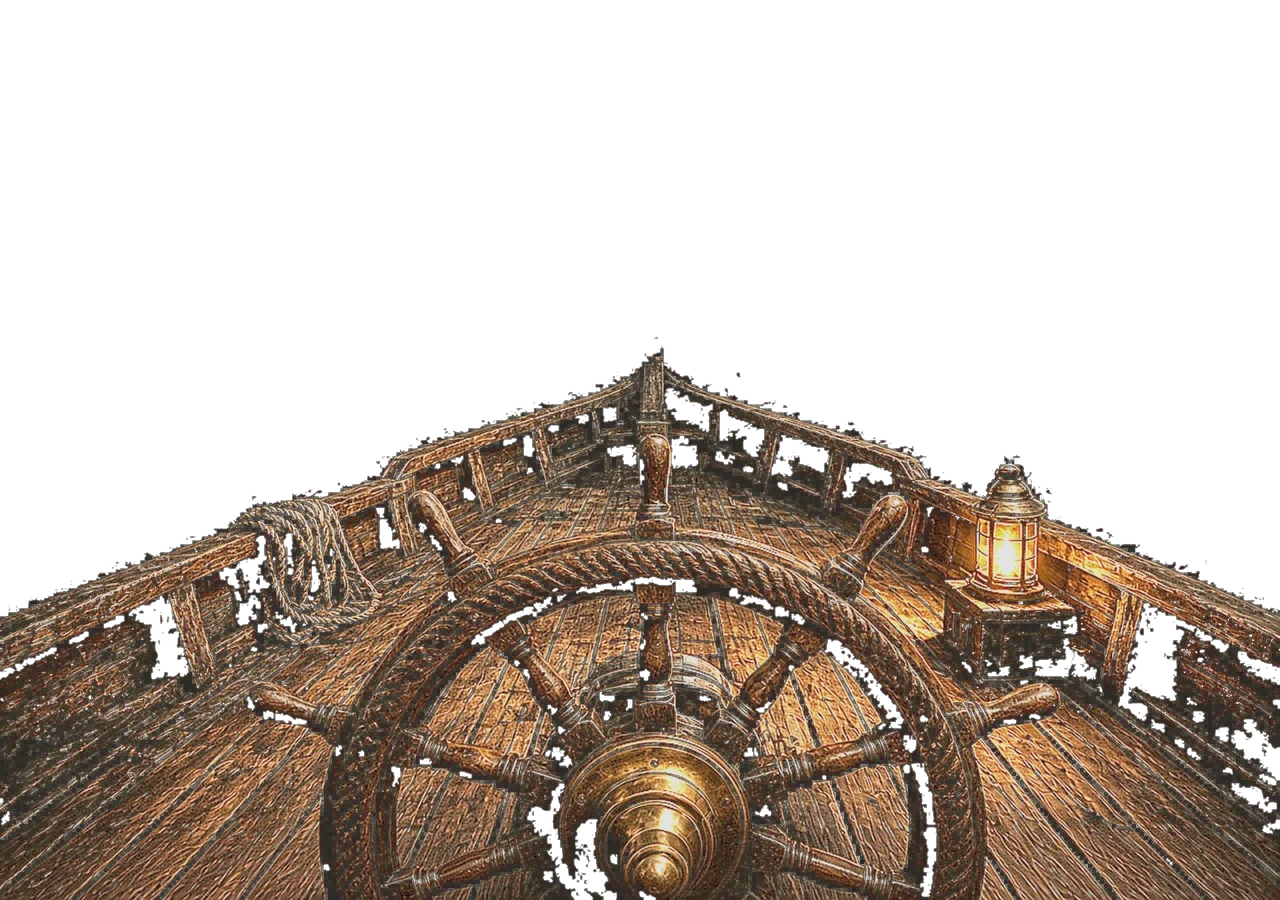
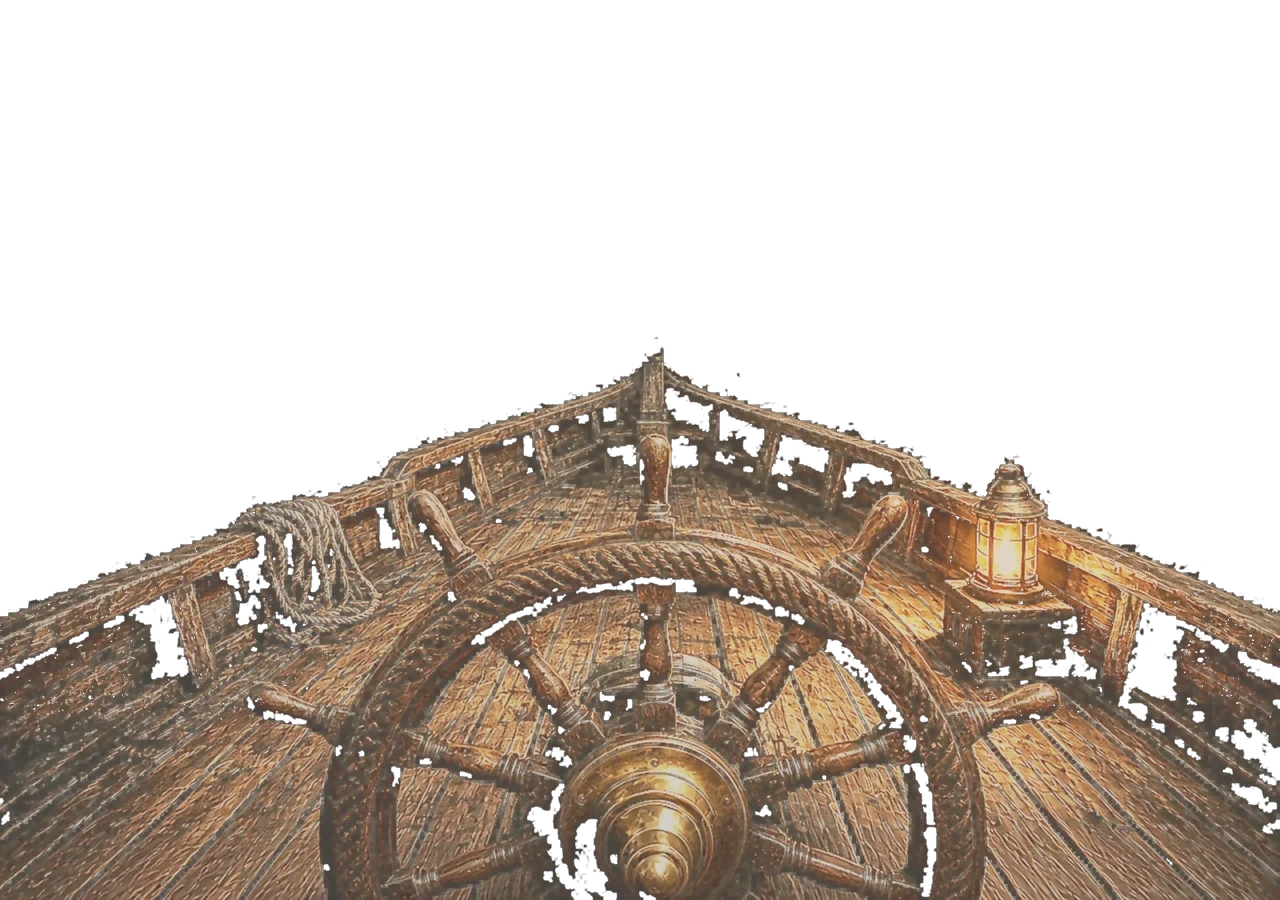
Ship: film-still timber grade; keep sea past bow
Bilateral film grade + soft grain/lantern warmth on coherent
helm plates; softer sky/sea alpha join; reseat flame in glass.
Preserve water8 ocean void (no black-water regression).
Cache-bust ?v=film1.

Changed region(s): [[0.0, 0.4044, 1.0, 1.0]]

diff --git a/projects.html b/projects.html
@@ -13,5 +13,5 @@
 <div class="grid"><article class="proj glass feat" data-cat="Education"><a class="shot" href="https://inteloasis.com" target="_blank" rel="noopener" tabindex="-1"><img src="assets/shots/inteloasis.webp" alt="Screenshot of IntelOasis" loading="lazy" width="720" height="450"></a><div class="pb"><div class="ph2"><h3>IntelOasis</h3><span class="tag">Education</span></div><p><strong>Every problem has a thousand solutions. IntelOasis is where Charles keeps them.</strong> It is a living library of ideas, books, software, clubs, and traditions, and it is the roof over everything else here. <strong>It holds the vision. The products below put it into practice.</strong></p><ul class="stack"><li>React</li><li>Vite</li><li>Tailwind</li></ul><div class="links"><a class="btn" href="https://inteloasis.com" target="_blank" rel="noopener">Visit ↗</a><a class="btn ghost" href="https://github.com/charlesanthonyleone/intel-oasis" target="_blank" rel="noopener">GitHub ↗</a></div></div></article><article class="proj glass feat" data-cat="Games"><a class="shot" href="https://scavengia.com" target="_blank" rel="noopener" tabindex="-1"><img src="assets/shots/scavengia.webp" alt="Screenshot of Scavengia" loading="lazy" width="720" height="450"></a><div class="pb"><div class="ph2"><h3>Scavengia</h3><span class="tag">Games</span></div><p><strong>Scavengia is an AI-powered index of everything, and people build it by exploring the world.</strong> Players go out, open caches, and pay to explore. Each discovery adds real places, objects, images, lore, and rarity to a shared map of the planet. <strong>When everything has been found, the AI keeps digging.</strong> It surfaces the precedent: the history and the earlier finds behind each place. <strong>It connects people on opposite sides of the world</strong> through the same hunt. <strong>Ride-alongs fix two problems at once.</strong> Someone who is driving and can&#x27;t play takes along someone who can play but can&#x27;t move. The driver moves the game forward and the remote player gets to explore. <strong>Nobody is left out of the hunt.</strong></p><ul class="stack"><li>TypeScript</li><li>Capacitor Android</li></ul><div class="links"><a class="btn" href="https://scavengia.com" target="_blank" rel="noopener">Visit ↗</a></div></div></article><article class="proj glass feat" data-cat="Civic"><a class="shot" href="https://recordoflaw.com" target="_blank" rel="noopener" tabindex="-1"><img src="assets/shots/recordoflaw.webp" alt="Screenshot of RecordOfLaw" loading="lazy" width="720" height="450"></a><div class="pb"><div class="ph2"><h3>RecordOfLaw</h3><span class="tag">Civic/Politics</span></div><p><strong>Who made the law, when, and how.</strong> RecordOfLaw records offices, officeholders, and legal changes. <strong>Every entry is dated, sourced, and cross-linked.</strong> It starts with FDR and the New Deal, and the build checks its data before it compiles. <strong>The 2026 Midterm Tracker is live.</strong></p><ul class="stack"><li>Python pipeline</li><li>Vite + TS</li></ul><div class="links"><a class="btn" href="https://recordoflaw.com" target="_blank" rel="noopener">Visit ↗</a><a class="btn ghost" href="https://recordoflaw.com/midterms/" target="_blank" rel="noopener">2026 Midterm Tracker ↗</a></div></div></article><article class="proj glass" data-cat="Education"><a class="shot" href="https://leoneuniversity.org" target="_blank" rel="noopener" tabindex="-1"><img src="assets/shots/leone-university.webp" alt="Screenshot of Leone University" loading="lazy" width="720" height="450"></a><div class="pb"><div class="ph2"><h3>Leone University</h3><span class="tag">Education</span></div><p><strong>A think tank where ideas are kept as records.</strong> It started as a prototype on the Base44 AI app builder. <strong>Charles rebuilt it as a standalone React app</strong> that deploys automatically through GitHub Actions.</p><ul class="stack"><li>Vite</li><li>React</li></ul><div class="links"><a class="btn" href="https://leoneuniversity.org" target="_blank" rel="noopener">Visit ↗</a><a class="btn ghost" href="https://github.com/charlesanthonyleone/leone-university" target="_blank" rel="noopener">GitHub ↗</a></div></div></article><article class="proj glass" data-cat="Education"><a class="shot" href="https://library.leoneuniversity.org" target="_blank" rel="noopener" tabindex="-1"><img src="assets/shots/leone-library.webp" alt="Screenshot of Leone Library" loading="lazy" width="720" height="450"></a><div class="pb"><div class="ph2"><h3>Leone Library</h3><span class="tag">Education</span></div><p><strong>Read, translate, remix, and publish the public-domain classics.</strong> Its catalogue is fed by ingestion pipelines from Project Gutenberg and LibriVox. <strong>It&#x27;s a free library meant to be built on.</strong></p><ul class="stack"><li>TypeScript</li></ul><div class="links"><a class="btn" href="https://library.leoneuniversity.org" target="_blank" rel="noopener">Visit ↗</a><a class="btn ghost" href="https://github.com/charlesanthonyleone/leonelibrary" target="_blank" rel="noopener">GitHub ↗</a></div></div></article><article class="proj glass" data-cat="Community"><a class="shot" href="https://charlesanthonyleone.github.io/leoneguard-stats/" target="_blank" rel="noopener" tabindex="-1"><img src="assets/shots/leoneguard-stats.webp" alt="Screenshot of LeoneGuard" loading="lazy" width="720" height="450"></a><div class="pb"><div class="ph2"><h3>LeoneGuard</h3><span class="tag">Community</span></div><p><strong>Moderation that can tell venting from attacking.</strong> At its core is DramaScreen, a low-cost harassment detector that ignores banter and acts on targeted personal attacks. <strong>The public stats page shows only totals, with no names and no messages.</strong></p><ul class="stack"><li>TypeScript</li><li>Docker</li><li>Postgres</li><li>Redis</li><li>Local LLM</li></ul><div class="links"><a class="btn" href="https://charlesanthonyleone.github.io/leoneguard-stats/" target="_blank" rel="noopener">Visit ↗</a><a class="btn ghost" href="https://charlesanthonyleone.github.io/leoneguard-stats/" target="_blank" rel="noopener">Public stats ↗</a></div></div></article><article class="proj glass" data-cat="Community"><a class="shot" href="https://xatmarket.com" target="_blank" rel="noopener" tabindex="-1"><img src="assets/shots/xatmarket.webp" alt="Screenshot of XatMarket" loading="lazy" width="720" height="450"></a><div class="pb"><div class="ph2"><h3>XatMarket</h3><span class="tag">Community</span></div><p><strong>Services, staff, and ideas for xat communities.</strong> XatMarket is the home base for the xat chat community, and <strong>WarMap and XatCast launch from it.</strong></p><ul class="stack"><li>JavaScript</li></ul><div class="links"><a class="btn" href="https://xatmarket.com" target="_blank" rel="noopener">Visit ↗</a></div></div></article><article class="proj glass" data-cat="Community"><a class="shot" href="https://tv.xatmarket.com" target="_blank" rel="noopener" tabindex="-1"><img src="assets/shots/xatcast.webp" alt="Screenshot of XatCast" loading="lazy" width="720" height="450"></a><div class="pb"><div class="ph2"><h3>XatCast</h3><span class="tag">Community</span></div><p><strong>A broadcast network that airs only work the public is free to use.</strong> It runs always-on stations (XatArt, XatWar, XatSports, XatMusic) fed from the Met, the Art Institute of Chicago, Wikimedia Commons, and the Internet Archive. <strong>The license and attribution are recorded for every item.</strong> A shared broadcast clock means <strong>every viewer sees the same thing at the same second.</strong></p><ul class="stack"><li>TypeScript</li><li>Live</li></ul><div class="links"><a class="btn" href="https://tv.xatmarket.com" target="_blank" rel="noopener">Visit ↗</a></div></div></article><article class="proj glass" data-cat="Civic"><a class="shot" href="https://maps.xatmarket.com" target="_blank" rel="noopener" tabindex="-1"><img src="assets/shots/xatmaps.webp" alt="Screenshot of XatMaps · WarMap" loading="lazy" width="720" height="450"></a><div class="pb"><div class="ph2"><h3>XatMaps · WarMap</h3><span class="tag">Civic/Politics</span></div><p><strong>A live 3D night globe of world conflict. Free, open source, with no accounts, no paywall, and no tracking.</strong> It combines UCDP, GDELT (labeled &quot;auto-coded, unverified&quot;), NASA FIRMS heat detections, and Wikipedia control maps. <strong>Every event shows its source and a confidence label.</strong> It also has a daily brief, RSS feeds, and an embed mode.</p><ul class="stack"><li>3D globe</li><li>Open data</li></ul><div class="links"><a class="btn" href="https://maps.xatmarket.com" target="_blank" rel="noopener">Visit ↗</a></div></div></article><article class="proj glass" data-cat="Games"><a class="shot" href="https://blesshalo.com" target="_blank" rel="noopener" tabindex="-1"><img src="assets/shots/blesshalo.webp" alt="Screenshot of BlessHalo" loading="lazy" width="720" height="450"></a><div class="pb"><div class="ph2"><h3>BlessHalo</h3><span class="tag">Games</span></div><p><strong>UNSC : Bless is a private military Halo company, run like a real organization.</strong> It has houses, a charter, insignia, roles and medals, a Pro-Am series, mentorship, a Cadet Track, and a field manual. <strong>It&#x27;s a structure for leading a community.</strong></p><ul class="stack"></ul><div class="links"><a class="btn" href="https://blesshalo.com" target="_blank" rel="noopener">Visit ↗</a></div></div></article><article class="proj glass" data-cat="Games"><div class="shot ph"><span>Private · no public page</span></div><div class="pb"><div class="ph2"><h3>WoW AzerothCore server + xat in-game UI</h3><span class="tag">Games</span></div><p>A World of Warcraft 3.3.5 private server on AzerothCore, with a custom FrameXML Lua UI and native DLL proxy hooks (d3d9, dinput8, MinHook) that bring xat chat into the game client. The server also runs a local Qwen2.5-3B model. In progress.</p><ul class="stack"><li>C/C++</li><li>Lua</li><li>MySQL</li><li>Local LLM</li></ul><div class="links"></div></div></article><article class="proj glass" data-cat="Community"><a class="shot" href="https://lowdro.com" target="_blank" rel="noopener" tabindex="-1"><img src="assets/shots/lowdro.webp" alt="Screenshot of LowDro" loading="lazy" width="720" height="450"></a><div class="pb"><div class="ph2"><h3>LowDro</h3><span class="tag">Community</span></div><p><strong>A members-only, age-gated (21+) storefront for hemp-derived products, plus the security tool that protects it.</strong> Charles built lowdro-ir alongside the store. It is an incident-response analyzer that reads Supabase, Cloudflare, and Nginx logs and flags brute-force attempts, table enumeration, and misuse of privileged keys. <strong>He secures what he ships.</strong></p><ul class="stack"><li>Vite SPA</li><li>21+ age-gated</li></ul><div class="links"><a class="btn" href="https://lowdro.com" target="_blank" rel="noopener">Visit ↗</a></div></div></article><article class="proj glass" data-cat="Tools/AI"><a class="shot" href="https://charlesanthonyleone.github.io/tapback/" target="_blank" rel="noopener" tabindex="-1"><img src="assets/shots/tapback.webp" alt="Screenshot of Tapback" loading="lazy" width="720" height="450"></a><div class="pb"><div class="ph2"><h3>Tapback</h3><span class="tag">Tools/AI</span></div><p>“Your tap gets a comeback.” A sharp marketing site for a product idea — static multi-page, Python-built, shipped to GitHub Pages.</p><ul class="stack"><li>Static</li><li>Python build</li></ul><div class="links"><a class="btn" href="https://charlesanthonyleone.github.io/tapback/" target="_blank" rel="noopener">Visit ↗</a></div></div></article><article class="proj glass" data-cat="Tools/AI"><a class="shot" href="https://charlesanthonyleone.github.io/remote-robotics/" target="_blank" rel="noopener" tabindex="-1"><img src="assets/shots/remote-robotics.webp" alt="Screenshot of Remote Robotics" loading="lazy" width="720" height="450"></a><div class="pb"><div class="ph2"><h3>Remote Robotics</h3><span class="tag">Tools/AI</span></div><p>Concept site for human-supervised robotics R&amp;D — framing the problem of keeping a person in the loop when machines act at a distance.</p><ul class="stack"><li>Static</li></ul><div class="links"><a class="btn" href="https://charlesanthonyleone.github.io/remote-robotics/" target="_blank" rel="noopener">Visit ↗</a></div></div></article></div></section><footer class="foot"><p>© 2026 Charles Leone · <a href="https://github.com/charlesanthonyleone">github.com/charlesanthonyleone</a></p><p class="credit">Milky Way: <a href="https://www.eso.org/public/images/eso0932a/" rel="noopener">ESO/S. Brunier</a>, CC BY 4.0 · Moon: <a href="https://commons.wikimedia.org/wiki/File:FullMoon2010.jpg" rel="noopener">Gregory H. Revera</a>, CC BY-SA 3.0 · Ship: coherent photoreal helm plate + scene sky/ocean</p></footer></main>
 <div class="scene-set"><div id="scene-panel" class="scene-panel glass" role="dialog" aria-label="Scene settings" hidden><label><input type="checkbox" id="set-ocean"> Ocean animation</label><label><input type="checkbox" id="set-sky"> Star &amp; sky animation</label><label><input type="checkbox" id="set-rock"> Ship rocking &amp; lantern</label><p>Off shows a still frame. Defaults follow your system's reduced-motion setting.</p></div>
 <button id="gear" class="scene-gear glass" aria-expanded="false" aria-label="Scene settings" title="Scene settings"><svg viewBox="0 0 24 24" width="18" height="18" aria-hidden="true"><path fill="currentColor" d="M19.4 13a7.5 7.5 0 0 0 0-2l2-1.6-2-3.4-2.4 1a7 7 0 0 0-1.7-1L15 3.5h-4l-.4 2.5a7 7 0 0 0-1.7 1l-2.4-1-2 3.4L6.6 11a7.5 7.5 0 0 0 0 2l-2 1.6 2 3.4 2.4-1a7 7 0 0 0 1.7 1l.4 2.5h4l.4-2.5a7 7 0 0 0 1.7-1l2.4 1 2-3.4zM13 15.5a3.5 3.5 0 1 1 0-7 3.5 3.5 0 0 1 0 7z" transform="translate(-1 0)"/></svg></button></div>
-<script src="assets/scene.js?v=water8" defer></script><script src="assets/ship.js?v=water8" defer></script><script src="assets/pages.js" defer></script>
+<script src="assets/scene.js?v=film1" defer></script><script src="assets/ship.js?v=film1" defer></script><script src="assets/pages.js" defer></script>
 </body></html>

diff --git a/index.html b/index.html
@@ -13,5 +13,5 @@
 <section class="doors"><a class="door glass" href="story.html"><span class="eyebrow">The log</span><b>My Story</b><span>In my own words — 12 min read</span></a><a class="door glass" href="projects.html"><span class="eyebrow">The work</span><b>Projects</b><span>14 things built and live</span></a></section><section class="featured"><div class="sec-h"><h2 class="sh">Flagship</h2><a class="hint" href="projects.html">All 14 projects →</a></div><div class="grid"><article class="proj glass feat" data-cat="Education"><a class="shot" href="https://inteloasis.com" target="_blank" rel="noopener" tabindex="-1"><img src="assets/shots/inteloasis.webp" alt="Screenshot of IntelOasis" loading="lazy" width="720" height="450"></a><div class="pb"><div class="ph2"><h3>IntelOasis</h3><span class="tag">Education</span></div><p><strong>Every problem has a thousand solutions. IntelOasis is where Charles keeps them.</strong> It is a living library of ideas, books, software, clubs, and traditions, and it is the roof over everything else here. <strong>It holds the vision. The products below put it into practice.</strong></p><ul class="stack"><li>React</li><li>Vite</li><li>Tailwind</li></ul><div class="links"><a class="btn" href="https://inteloasis.com" target="_blank" rel="noopener">Visit ↗</a><a class="btn ghost" href="https://github.com/charlesanthonyleone/intel-oasis" target="_blank" rel="noopener">GitHub ↗</a></div></div></article><article class="proj glass feat" data-cat="Games"><a class="shot" href="https://scavengia.com" target="_blank" rel="noopener" tabindex="-1"><img src="assets/shots/scavengia.webp" alt="Screenshot of Scavengia" loading="lazy" width="720" height="450"></a><div class="pb"><div class="ph2"><h3>Scavengia</h3><span class="tag">Games</span></div><p><strong>Scavengia is an AI-powered index of everything, and people build it by exploring the world.</strong> Players go out, open caches, and pay to explore. Each discovery adds real places, objects, images, lore, and rarity to a shared map of the planet. <strong>When everything has been found, the AI keeps digging.</strong> It surfaces the precedent: the history and the earlier finds behind each place. <strong>It connects people on opposite sides of the world</strong> through the same hunt. <strong>Ride-alongs fix two problems at once.</strong> Someone who is driving and can&#x27;t play takes along someone who can play but can&#x27;t move. The driver moves the game forward and the remote player gets to explore. <strong>Nobody is left out of the hunt.</strong></p><ul class="stack"><li>TypeScript</li><li>Capacitor Android</li></ul><div class="links"><a class="btn" href="https://scavengia.com" target="_blank" rel="noopener">Visit ↗</a></div></div></article><article class="proj glass feat" data-cat="Civic"><a class="shot" href="https://recordoflaw.com" target="_blank" rel="noopener" tabindex="-1"><img src="assets/shots/recordoflaw.webp" alt="Screenshot of RecordOfLaw" loading="lazy" width="720" height="450"></a><div class="pb"><div class="ph2"><h3>RecordOfLaw</h3><span class="tag">Civic/Politics</span></div><p><strong>Who made the law, when, and how.</strong> RecordOfLaw records offices, officeholders, and legal changes. <strong>Every entry is dated, sourced, and cross-linked.</strong> It starts with FDR and the New Deal, and the build checks its data before it compiles. <strong>The 2026 Midterm Tracker is live.</strong></p><ul class="stack"><li>Python pipeline</li><li>Vite + TS</li></ul><div class="links"><a class="btn" href="https://recordoflaw.com" target="_blank" rel="noopener">Visit ↗</a><a class="btn ghost" href="https://recordoflaw.com/midterms/" target="_blank" rel="noopener">2026 Midterm Tracker ↗</a></div></div></article></div></section><footer class="foot"><p>© 2026 Charles Leone · <a href="https://github.com/charlesanthonyleone">github.com/charlesanthonyleone</a></p><p class="credit">Milky Way: <a href="https://www.eso.org/public/images/eso0932a/" rel="noopener">ESO/S. Brunier</a>, CC BY 4.0 · Moon: <a href="https://commons.wikimedia.org/wiki/File:FullMoon2010.jpg" rel="noopener">Gregory H. Revera</a>, CC BY-SA 3.0 · Ship: coherent photoreal helm plate + scene sky/ocean</p></footer></main>
 <div class="scene-set"><div id="scene-panel" class="scene-panel glass" role="dialog" aria-label="Scene settings" hidden><label><input type="checkbox" id="set-ocean"> Ocean animation</label><label><input type="checkbox" id="set-sky"> Star &amp; sky animation</label><label><input type="checkbox" id="set-rock"> Ship rocking &amp; lantern</label><p>Off shows a still frame. Defaults follow your system's reduced-motion setting.</p></div>
 <button id="gear" class="scene-gear glass" aria-expanded="false" aria-label="Scene settings" title="Scene settings"><svg viewBox="0 0 24 24" width="18" height="18" aria-hidden="true"><path fill="currentColor" d="M19.4 13a7.5 7.5 0 0 0 0-2l2-1.6-2-3.4-2.4 1a7 7 0 0 0-1.7-1L15 3.5h-4l-.4 2.5a7 7 0 0 0-1.7 1l-2.4-1-2 3.4L6.6 11a7.5 7.5 0 0 0 0 2l-2 1.6 2 3.4 2.4-1a7 7 0 0 0 1.7 1l.4 2.5h4l.4-2.5a7 7 0 0 0 1.7-1l2.4 1 2-3.4zM13 15.5a3.5 3.5 0 1 1 0-7 3.5 3.5 0 0 1 0 7z" transform="translate(-1 0)"/></svg></button></div>
-<script src="assets/scene.js?v=water8" defer></script><script src="assets/ship.js?v=water8" defer></script><script src="assets/pages.js" defer></script>
+<script src="assets/scene.js?v=film1" defer></script><script src="assets/ship.js?v=film1" defer></script><script src="assets/pages.js" defer></script>
 </body></html>

diff --git a/story.html b/story.html
@@ -38,5 +38,5 @@ November 5, 2026</pre>
 </section></div><footer class="foot"><p>© 2026 Charles Leone · <a href="https://github.com/charlesanthonyleone">github.com/charlesanthonyleone</a></p><p class="credit">Milky Way: <a href="https://www.eso.org/public/images/eso0932a/" rel="noopener">ESO/S. Brunier</a>, CC BY 4.0 · Moon: <a href="https://commons.wikimedia.org/wiki/File:FullMoon2010.jpg" rel="noopener">Gregory H. Revera</a>, CC BY-SA 3.0 · Ship: coherent photoreal helm plate + scene sky/ocean</p></footer></main>
 <div class="scene-set"><div id="scene-panel" class="scene-panel glass" role="dialog" aria-label="Scene settings" hidden><label><input type="checkbox" id="set-ocean"> Ocean animation</label><label><input type="checkbox" id="set-sky"> Star &amp; sky animation</label><label><input type="checkbox" id="set-rock"> Ship rocking &amp; lantern</label><p>Off shows a still frame. Defaults follow your system's reduced-motion setting.</p></div>
 <button id="gear" class="scene-gear glass" aria-expanded="false" aria-label="Scene settings" title="Scene settings"><svg viewBox="0 0 24 24" width="18" height="18" aria-hidden="true"><path fill="currentColor" d="M19.4 13a7.5 7.5 0 0 0 0-2l2-1.6-2-3.4-2.4 1a7 7 0 0 0-1.7-1L15 3.5h-4l-.4 2.5a7 7 0 0 0-1.7 1l-2.4-1-2 3.4L6.6 11a7.5 7.5 0 0 0 0 2l-2 1.6 2 3.4 2.4-1a7 7 0 0 0 1.7 1l.4 2.5h4l.4-2.5a7 7 0 0 0 1.7-1l2.4 1 2-3.4zM13 15.5a3.5 3.5 0 1 1 0-7 3.5 3.5 0 0 1 0 7z" transform="translate(-1 0)"/></svg></button></div>
-<script src="assets/scene.js?v=water8" defer></script><script src="assets/ship.js?v=water8" defer></script><script src="assets/pages.js" defer></script>
+<script src="assets/scene.js?v=film1" defer></script><script src="assets/ship.js?v=film1" defer></script><script src="assets/pages.js" defer></script>
 </body></html>

diff --git a/assets/ship.js b/assets/ship.js
@@ -1,4 +1,4 @@
-/* Coherent photoreal helm plate over scene.js sky/ocean + flame flicker. water8: sea void flood-clear into ocean band + film timber */
+/* Coherent photoreal helm plate over scene.js sky/ocean + flame flicker. film1: film-still timber grade + soft sea join; keep water void */
 (()=>{
   const K='pf-rock', rm=matchMedia('(prefers-reduced-motion: reduce)').matches;
   let on=(()=>{try{const v=localStorage.getItem(K);return v===null?!rm:v==='1'}catch{return!rm}})();
@@ -55,8 +55,8 @@ gl_FragColor=vec4(col,max(a,halo));}`));
   }
 
   const CFG={
-    d:{src:'assets/sky/deck.webp',W:2560,H:1800,hx:.748,hy:.552,lh:.065,px:.72,py:.70,ax:.5,dy:0.34,scale:0.96},
-    m:{src:'assets/sky/deck-m.webp',W:1328,H:1440,hx:.805,hy:.542,lh:.07,px:.76,py:.76,ax:.5,dy:0.42,scale:0.88}
+    d:{src:'assets/sky/deck.webp',W:2560,H:1800,hx:.748,hy:.548,lh:.062,px:.72,py:.70,ax:.5,dy:0.34,scale:0.96},
+    m:{src:'assets/sky/deck-m.webp',W:1328,H:1440,hx:.805,hy:.538,lh:.068,px:.76,py:.76,ax:.5,dy:0.42,scale:0.88}
   };
   let c,iw,ih,lw,lhh,DPR=Math.min(devicePixelRatio||1,2);
 

diff --git a/src/build.py b/src/build.py
@@ -18,7 +18,7 @@ def page(fn,title,cls,body,extra=''):
 <nav class="nav glass"><a href="index.html" class="brand">Charles Leone</a><span>{nav}</span></nav>
 <main class="wrap">{body}{foot}</main>
 {gear}
-<script src="assets/scene.js?v=water8" defer></script><script src="assets/ship.js?v=water8" defer></script><script src="assets/pages.js" defer></script>
+<script src="assets/scene.js?v=film1" defer></script><script src="assets/ship.js?v=film1" defer></script><script src="assets/pages.js" defer></script>
 </body></html>''')
 feat='<section class="featured"><div class="sec-h"><h2 class="sh">Flagship</h2><a class="hint" href="projects.html">All 14 projects →</a></div><div class="grid">'+''.join(arts[:3])+'</div></section>'
 links='<section class="doors"><a class="door glass" href="story.html"><span class="eyebrow">The log</span><b>My Story</b><span>In my own words — 12 min read</span></a><a class="door glass" href="projects.html"><span class="eyebrow">The work</span><b>Projects</b><span>14 things built and live</span></a></section>'
